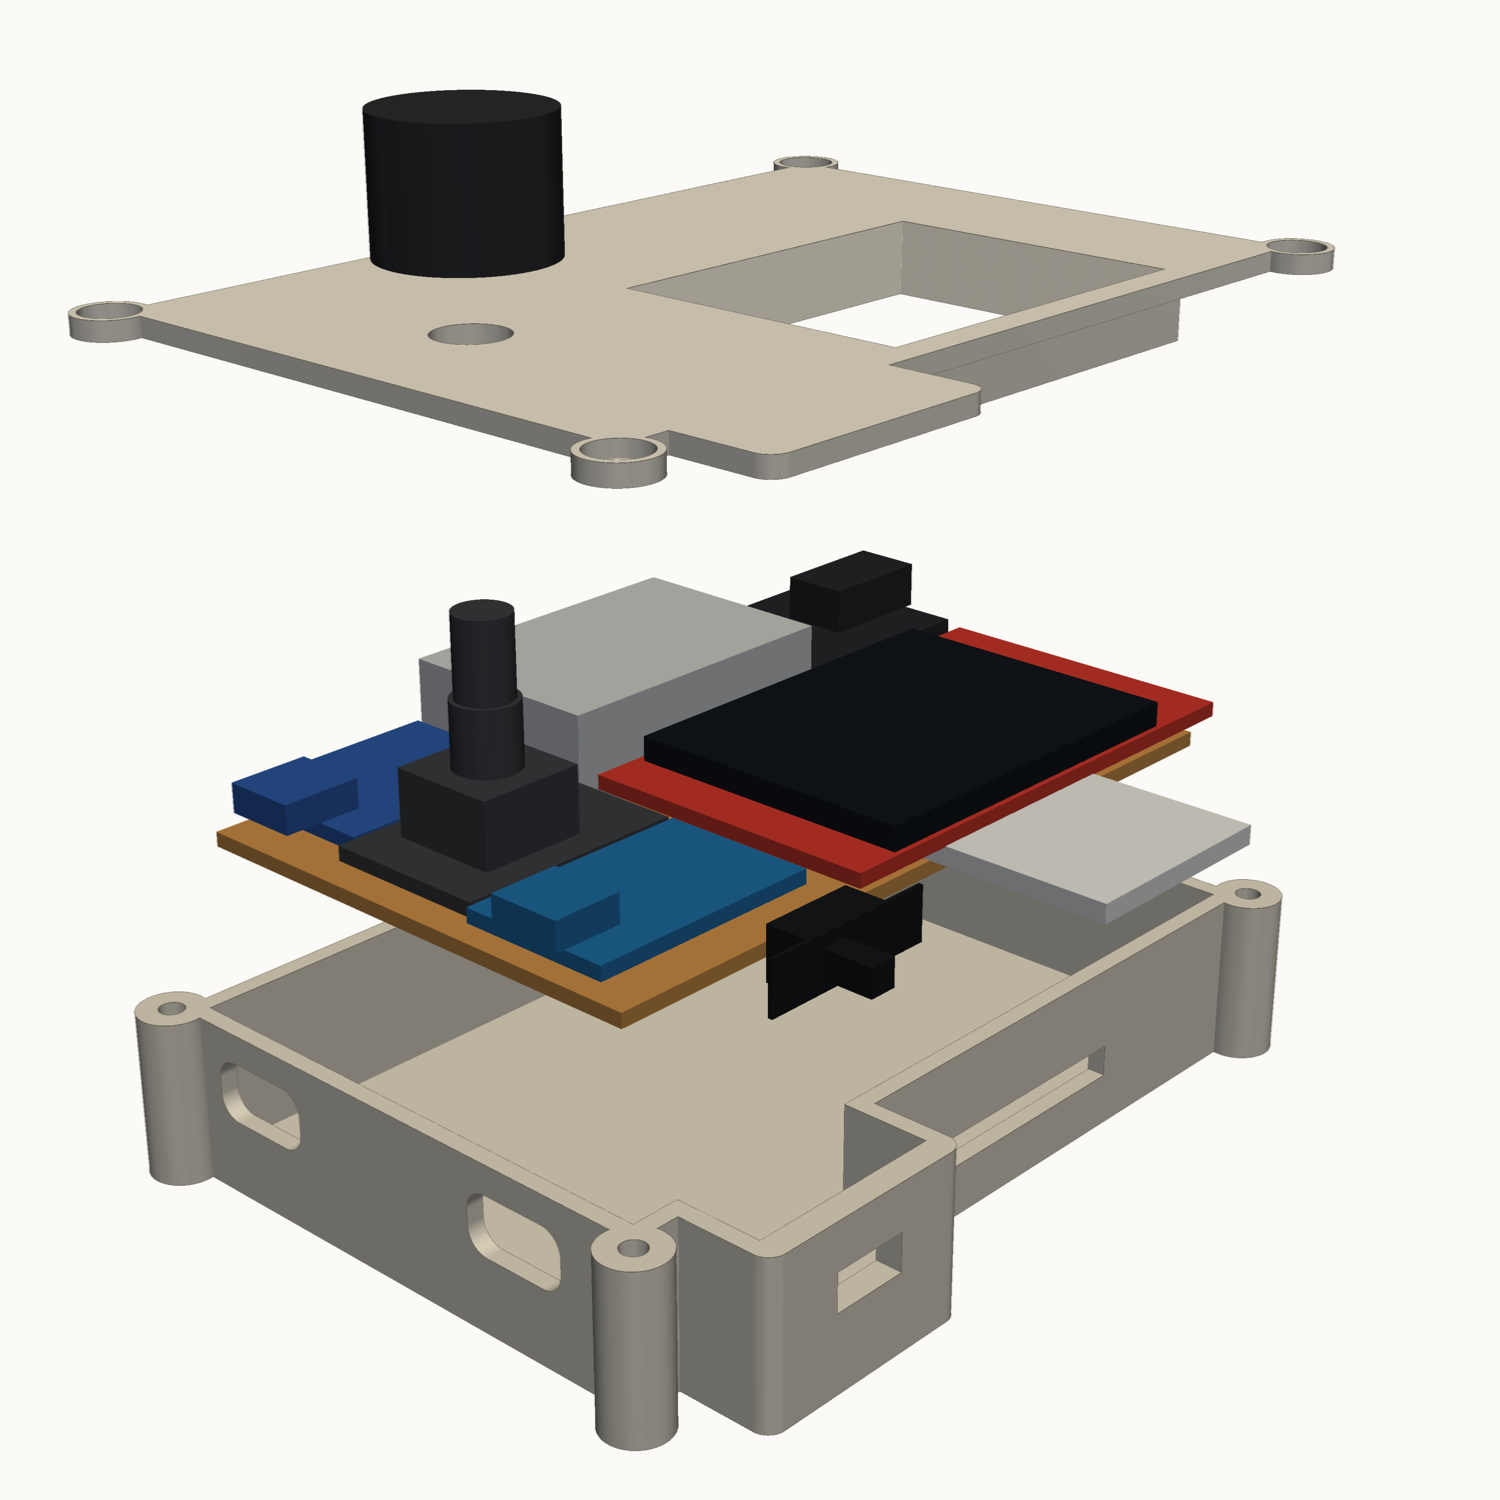
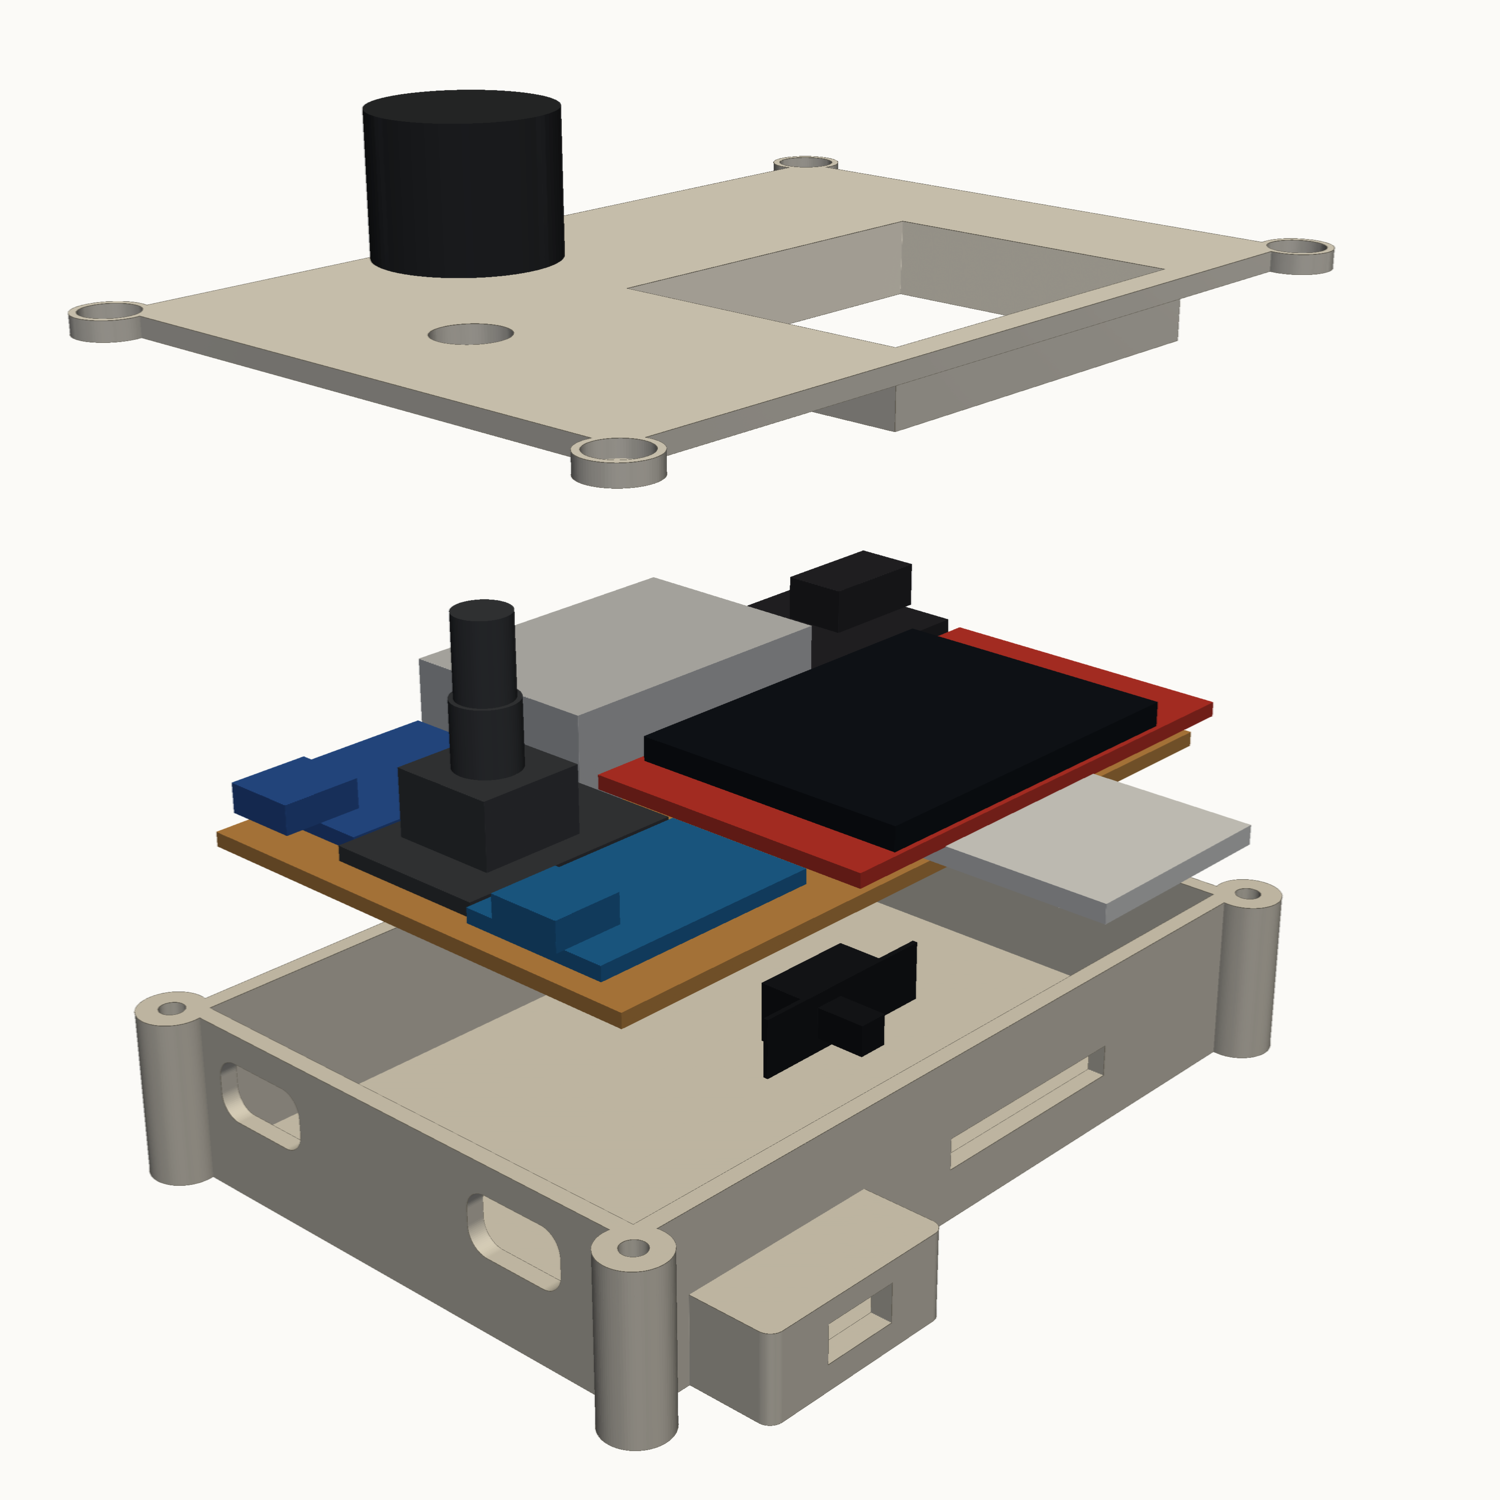
Case concept: low switch pod, 10 mm out, pocket 20 x 6 mm

Changed region(s): [[0.46, 0.736, 0.644, 0.9813], [0.4907, 0.5827, 0.6133, 0.736], [0.4293, 0.2453, 0.6747, 0.3373]]

diff --git a/hardware/case/paata_case.py b/hardware/case/paata_case.py
@@ -45,10 +45,14 @@ ENC_X, ENC_Y = 27.5, yd(76.7)
 WIN_X, WIN_Y, WIN_W, WIN_H = 41.9, yd(34.5), 30.0, 37.0      # screen window at the screen face
 
 # slide switch pod on the right wall (switch: body 10.5 x 5.7 x 5.0, 20 across the ears)
-POD_Y0, POD_Y1 = 3.0, 30.0
-POD_D = 11.0                          # how far the pod stands out from the wall
-POD_WALL = 3.0
-SW_Y, SW_Z = (POD_Y0 + POD_Y1) / 2, 9.0
+# Owner's sizes: 10 out from the wall, pocket 20 long and 6 high (plus a little clearance).
+POD_D = 10.0                          # how far the pod stands out from the wall
+POD_WALL = 2.5                        # outer wall, which the ears screw to
+POD_END = 2.0                         # end walls
+POD_ROOF = 1.5
+POCKET_L, POCKET_H = 20.4, 6.2
+SW_Y, SW_Z = 16.5, POCKET_H / 2       # the pocket sits on the case floor
+POD_Y0, POD_Y1 = SW_Y - POCKET_L / 2 - POD_END, SW_Y + POCKET_L / 2 + POD_END
 
 
 def B(x0, x1, y0, y1, z0, z1):
@@ -60,8 +64,6 @@ def outline():
     s = Pos(cx, cy) * RectangleRounded(X1 - X0 + 2 * WALL, Y1 - Y0 + 2 * WALL, 3.0)
     for x, y in lugs():
         s += Pos(x, y) * Circle(LUG_R)
-    xo = X1 + WALL
-    s += Pos(xo + POD_D / 2 - 1, (POD_Y0 + POD_Y1) / 2) * RectangleRounded(POD_D + 2, POD_Y1 - POD_Y0, 2.0)
     return s
 
 
@@ -72,8 +74,10 @@ def lugs():
 def base():
     xo = X1 + WALL
     b = Pos(0, 0, -FLOOR) * extrude(outline(), FLOOR + ZTOP)
+    pod = Pos(xo + POD_D / 2 - 1, (POD_Y0 + POD_Y1) / 2) * RectangleRounded(POD_D + 2, POD_Y1 - POD_Y0, 1.5)
+    b += Pos(0, 0, -FLOOR) * extrude(pod, FLOOR + POCKET_H + POD_ROOF)   # low pod, flat on the print bed
     b -= B(X0, X1, Y0, Y1, 0, ZTOP + 1)                                   # board cavity
-    b -= B(X1 - 1, xo + POD_D - POD_WALL, POD_Y0 + 2, POD_Y1 - 2, 4.0, ZTOP + 1)   # switch pocket, open to the cavity
+    b -= B(X1 - 1, xo + POD_D - POD_WALL, SW_Y - POCKET_L / 2, SW_Y + POCKET_L / 2, 0, POCKET_H)   # switch pocket, open to the cavity
     b -= B(xo + POD_D - POD_WALL - 1, xo + POD_D + 1, SW_Y - 4.5, SW_Y + 4.5, SW_Z - 2.2, SW_Z + 2.2)  # slider slot
     for dy in (-8, 8):                                                    # pilot holes for the ear screws
         b -= Pos(xo + POD_D - POD_WALL, SW_Y + dy, SW_Z) * Rot(0, 90, 0) * Cylinder(0.85, 4)

diff --git a/.claude/CLAUDE.md b/.claude/CLAUDE.md
@@ -128,9 +128,11 @@ Board is built and wired (2026-11-15). Owner's caliper readings of the finished 
   writes `concept-*.png` and git-ignored STLs. Base tray + flat lid held by four M3
   screws in outside corner lugs (owner asked for M3); screen seen through a tapered well
   in the lid; knob through the lid; jack hole in the top wall, two USB-C openings in the
-  bottom wall, SD slot in the right wall; switch in a pod on the right wall beside the
-  charger, slider out sideways, ears screwed to the pod wall from inside. About
-  80 × 104 × 20.5 mm over lugs and pod. Port, window and knob positions are estimates
+  bottom wall, SD slot in the right wall; switch in a low pod on the right wall beside the
+  charger, sized by the owner (10 mm out, pocket 20 long × 6 high; I added 0.4/0.2
+  clearance and walls, so 24.4 long × 9.7 tall outside, sitting on the case floor level),
+  slider out sideways, ears screwed to the pod wall from inside through the wall opening. About
+  79 × 104 × 20.5 mm over lugs and pod. Port, window and knob positions are estimates
   from photos; no board supports yet. Not printable until those are measured.
 
 ## Library / NAS conventions
